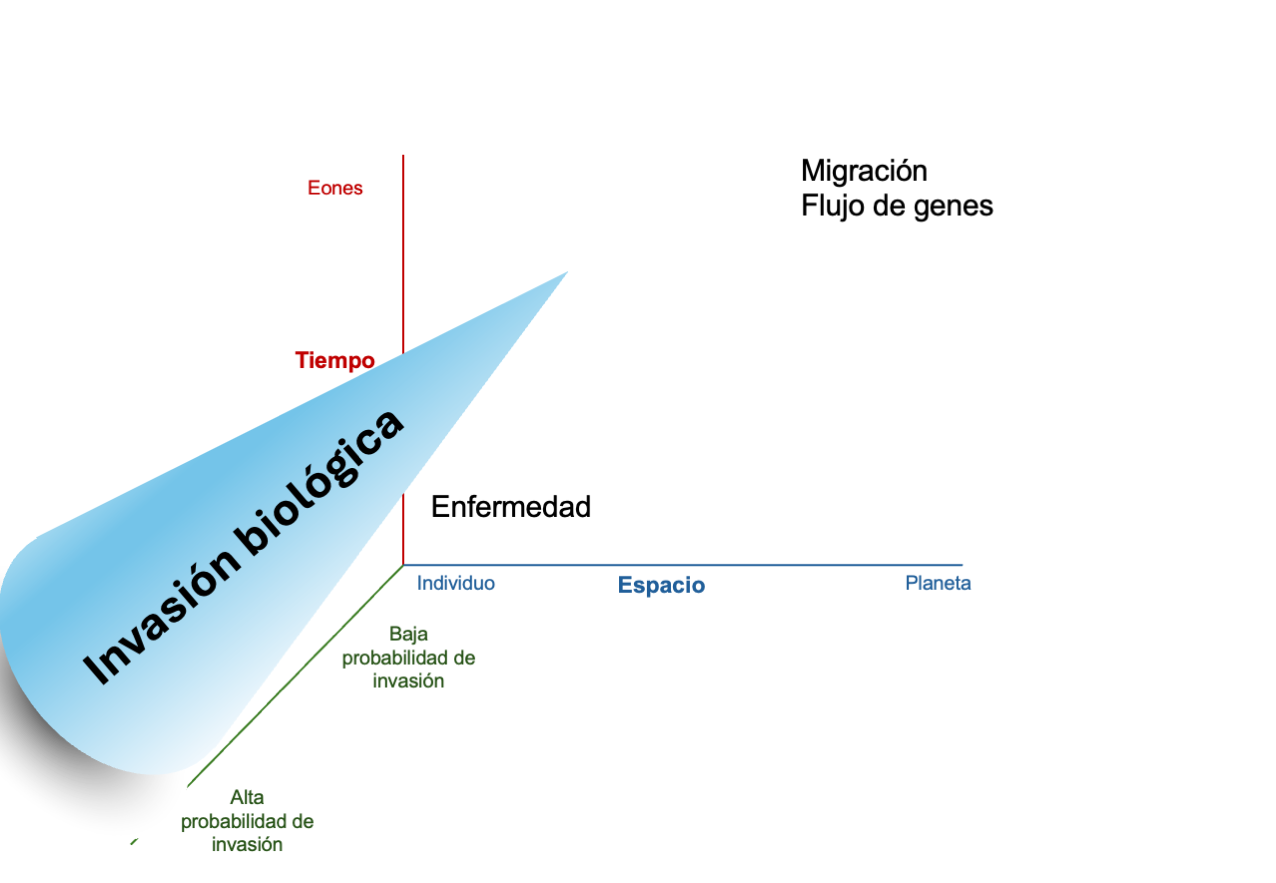
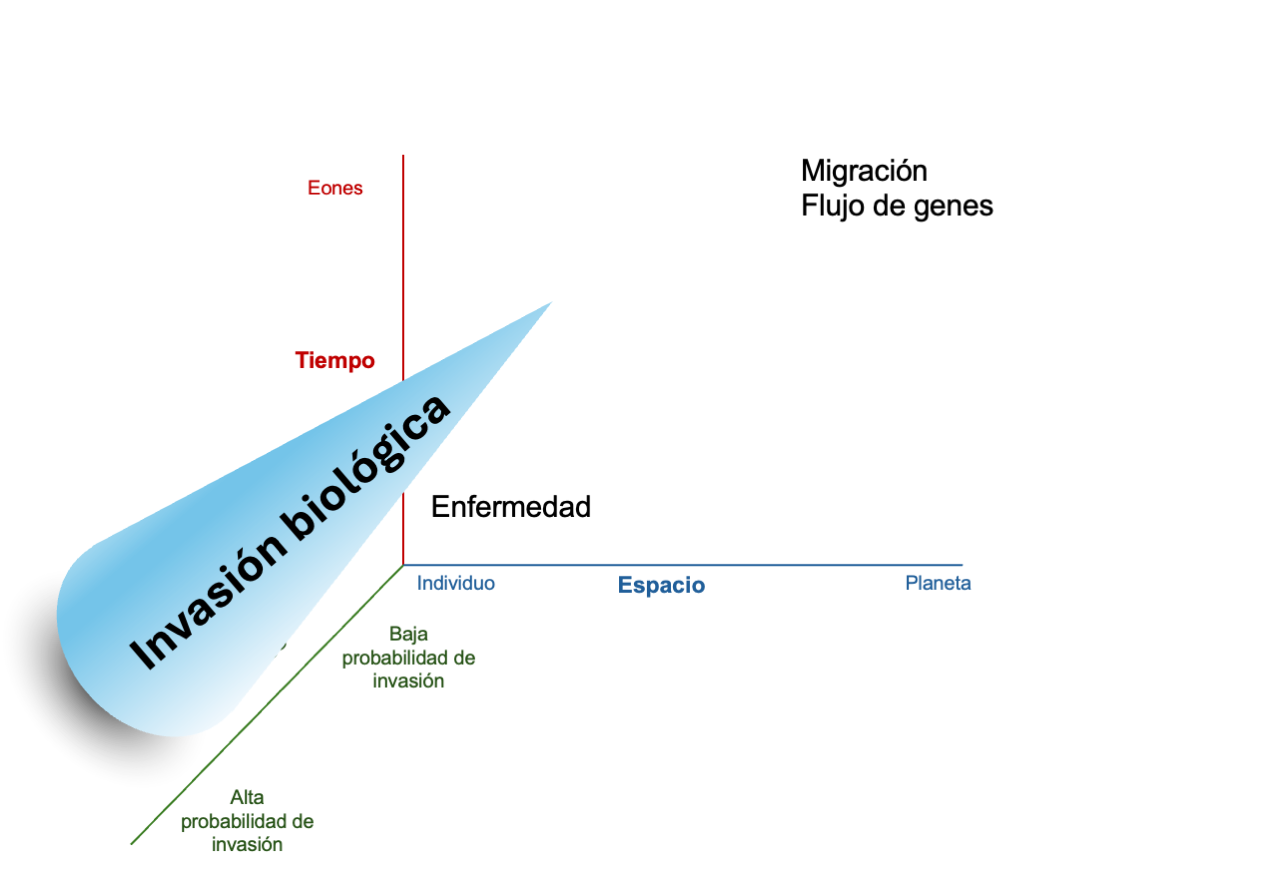
Actualizar imagen ejes invasión

diff --git a/guion_invasiones_IEEI_masterbio_UCO.md b/guion_invasiones_IEEI_masterbio_UCO.md
@@ -184,7 +184,7 @@ Después de los ejercicios con la IA, subimos el nivel de abstracción y comenta
 
 
 
-
+![ejes](https://raw.githubusercontent.com/aprendiendo-cosas/Te_general_invasoras_IEEI_masterbio_UCO/refs/heads/main/imagenes/ejes_invasion.png)
 
 
 
